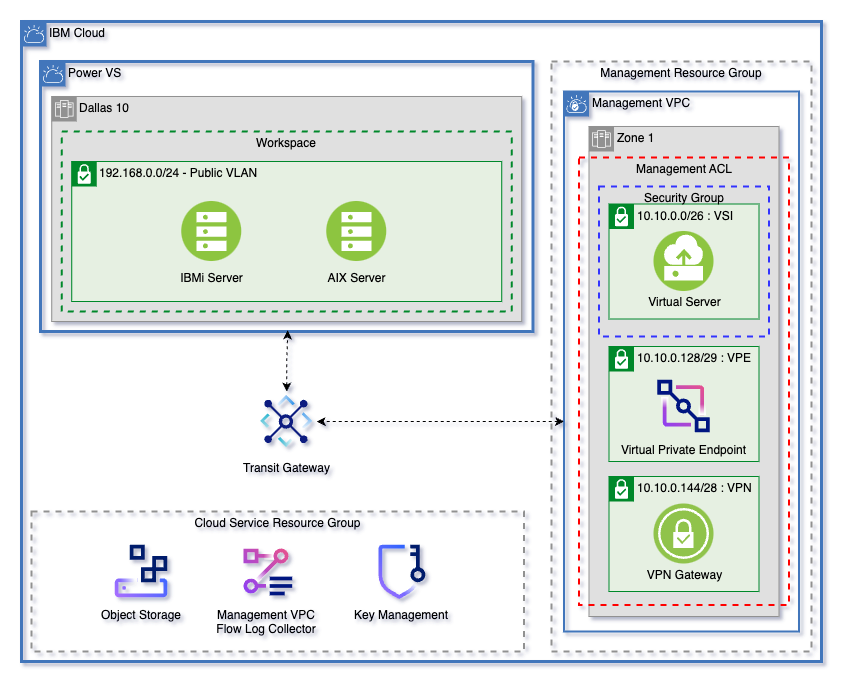
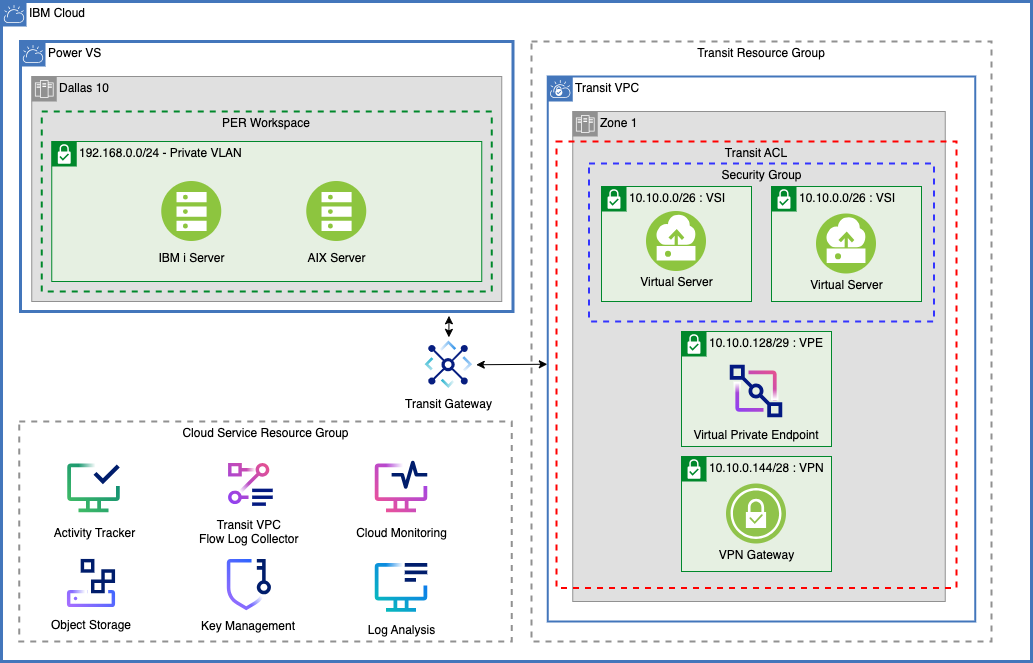
Update.powervs.poc.template (#1395)
* Updates to PowerVS PoC Template

* add Activity Tracker

* Rename the template to "Power VS POC"

* Power VS PoC constants.js updates

* More management to transit renames

* Change techzone to on-prem

* Put starting on-prem prefix in addtl prefixes field

* Change endpoints to public

* Fix additional prefixes on VPN, fix deprecated image

* Update template diagram

* Updated png with one that contains the draw.io embedding

* Review comments

diff --git a/client/src/lib/constants.js b/client/src/lib/constants.js
@@ -969,22 +969,20 @@ module.exports = {
         "An empty Power VS workspace",
       ],
     },
-    "Power VS POC Quick Start": {
+    "Power VS POC": {
       template: powerVsPocQuickStart,
-      name: "Power VS POC Quick Start",
+      name: "Power VS POC",
       patternDocText:
-        "This template initializes an environment with one VPC and a Power VS workspace to get started with using Power VS on IBM Cloud,",
+        "This template initializes an environment with one VPC and a Power VS workspace with 2 VSIs to get started with using Power VS on IBM Cloud,",
       includes: [
-        "A resource group for cloud services and for infrastructure management",
-        "A management VPC and a transit gateway",
-        "A VPC flow log collector",
-        "A VPN Gateway in the Management VPC",
-        "An example Virtual Server instance deployment in the management VPC",
-        "Encryption keys in either a Key Protect or Hyper Protect Crypto Services instance",
-        "A Cloud Object Storage Instance",
-        "A Flow Logs collector for VPC",
-        "Virtual Private endpoints for Cloud Object storage in the management VPC",
-        "An Power VS workspace with an example AIX and IBMi instance",
+        "Three resource groups designated for the Power Virtual Server Workspace, auxiliary resources, and cloud services",
+        "A VPC and 2 example Virtual Server instances deployment in the VPC",
+        "A Virtual Private Endpoint for Cloud Object storage in the VPC",
+        "A public gateway, a Transit gateway, and a VPC VPN Gateway",
+        "A VPC flow log collector, Activity Tracker, Cloud Monitoring and Log Analysis",
+        "A Key Protect Service and Encryption keys",
+        "Object storage instances for flow logs and Activity Tracker",
+        "A Power VS workspace with AIX and IBM i Power Virtual Server instances",
       ],
     },
     "VPN as a Service": {

diff --git a/client/src/components/utils/composed-templates.js b/client/src/components/utils/composed-templates.js
@@ -21,7 +21,7 @@ const templateImages = {
   "Power VS Quick Start": PowerVsQuickStart,
   "Power VS Oracle Single Instance": OracleSI,
   "VPN as a Service": Vpnaas,
-  "Power VS POC Quick Start": PowerVsPoc,
+  "Power VS POC": PowerVsPoc,
 };
 
 keys(template_dropdown_map).forEach((template) => {
